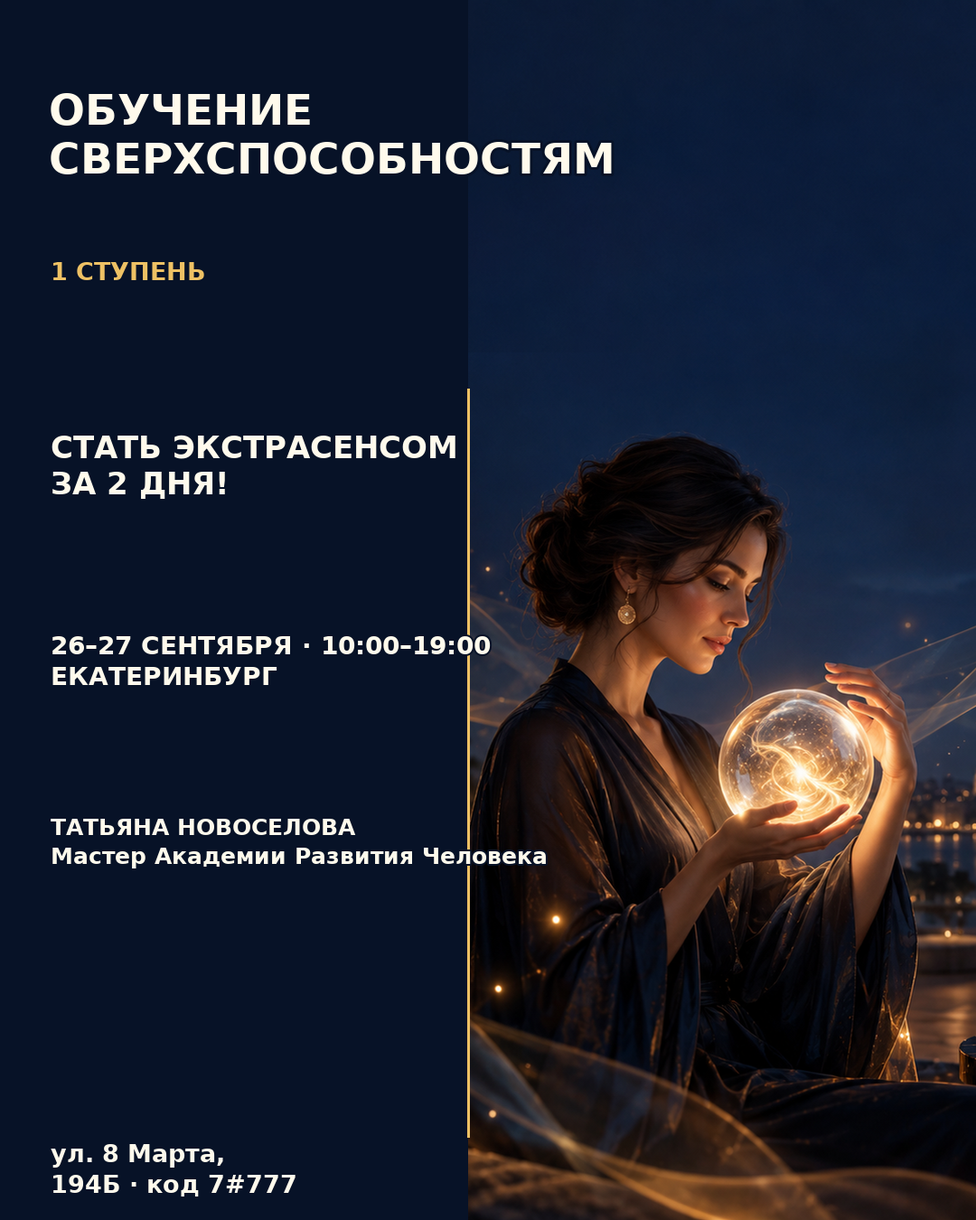
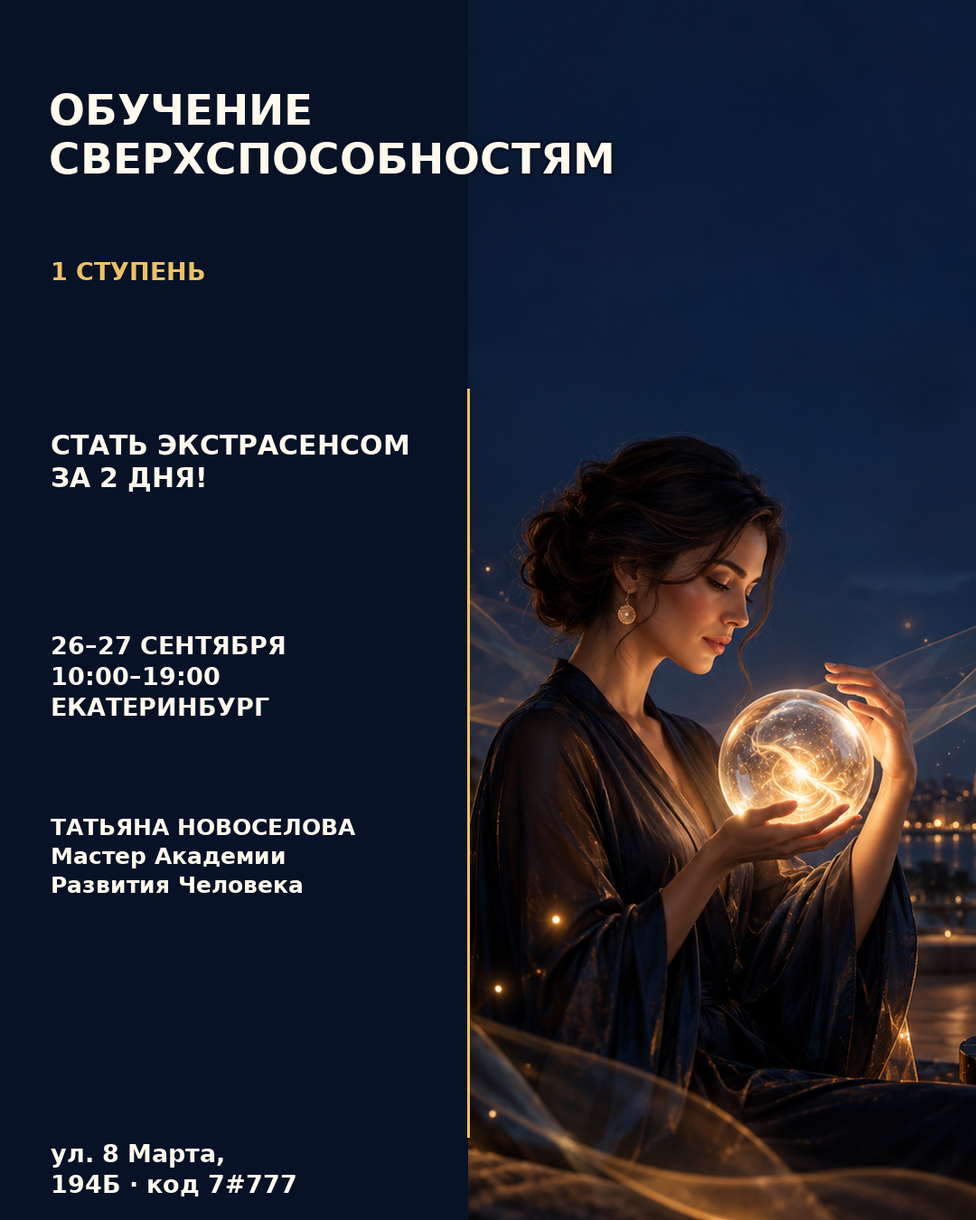
Keep supporting diptych text within column

diff --git a/scripts/build_layout_comparison_posters.py b/scripts/build_layout_comparison_posters.py
@@ -18,6 +18,13 @@ def text(draw: ImageDraw.ImageDraw, xy, value: str, size: int, color, *, anchor=
     draw.multiline_text(xy, value, font=font(BOLD, size), fill=color, anchor=anchor, align=align, spacing=spacing, stroke_width=width, stroke_fill=stroke)
 
 
+def text_in_column(draw: ImageDraw.ImageDraw, xy, value: str, size: int, color, max_right: int, *, stroke=(0, 0, 0, 0), width=0, spacing=4):
+    bounds = draw.multiline_textbbox(xy, value, font=font(BOLD, size), spacing=spacing, stroke_width=width)
+    if bounds[2] > max_right:
+        raise ValueError(f"Text exceeds column: {value!r}")
+    text(draw, xy, value, size, color, stroke=stroke, width=width, spacing=spacing)
+
+
 def left_gradient(color: tuple[int, int, int]) -> Image.Image:
     layer = Image.new("RGBA", (W, H), (0, 0, 0, 0))
     pixels = layer.load()
@@ -176,11 +183,11 @@ def diptych_headline_bleed() -> None:
     cream, amber, navy = (255, 250, 236, 255), (238, 193, 100, 255), (7, 18, 39, 255)
     draw.line((split, 430, split, 1258), fill=amber, width=3)
     text(draw, (54, 94), TITLE, 47, cream, stroke=navy, width=3)
-    text(draw, (56, 284), "1 СТУПЕНЬ", 27, amber, stroke=navy, width=2)
-    text(draw, (56, 475), OFFER, 34, cream, stroke=navy, width=2)
-    text(draw, (56, 698), DATE, 28, cream, stroke=navy, width=2)
-    text(draw, (56, 900), HOST, 25, cream, stroke=navy, width=2)
-    text(draw, (56, 1260), "ул. 8 Марта,\n194Б · код 7#777", 27, cream, stroke=navy, width=2)
+    text_in_column(draw, (56, 284), "1 СТУПЕНЬ", 27, amber, split - 18, stroke=navy, width=2)
+    text_in_column(draw, (56, 475), OFFER, 30, cream, split - 18, stroke=navy, width=2)
+    text_in_column(draw, (56, 698), "26–27 СЕНТЯБРЯ\n10:00–19:00\nЕКАТЕРИНБУРГ", 27, cream, split - 18, stroke=navy, width=2)
+    text_in_column(draw, (56, 900), "ТАТЬЯНА НОВОСЕЛОВА\nМастер Академии\nРазвития Человека", 25, cream, split - 18, stroke=navy, width=2)
+    text_in_column(draw, (56, 1260), "ул. 8 Марта,\n194Б · код 7#777", 27, cream, split - 18, stroke=navy, width=2)
     save(Image.alpha_composite(image, layer), "23-layout-diptych-headline-bleed.png")
 
 

diff --git a/.Codex/skills/event-media-visuals/SKILL.md b/.Codex/skills/event-media-visuals/SKILL.md
@@ -18,7 +18,7 @@ description: "Создаёт готовые для публикации изоб
    - символическая: магическая и образная, только если это уместно для темы; иначе — премиальная, предметная или природная интерпретация.
    Не повторяй между ними главный сюжет, ракурс, доминирующую палитру и действие.
 5. Сделай четвёртый, дополнительный визуал — отдельную 3D-стилизованную афишу в зацикленном GIF. Это самостоятельный четвёртый концепт, а не анимация одной из трёх статичных афиш. Специально выбери композицию, в которой есть минимум два естественно движущихся элемента: искры и объёмный свет для огня/металла; вода и туман; ткань и волосы на ветру; трава и солнечные блики; дым и мерцание. Если исходная тема не даёт таких элементов, построй сюжет вокруг уместного источника света, воздуха, воды или материалов — но не добавляй чужеродную магию. Не двигай картинку целиком, не делай зум, тряску или беспричинную анимацию. Текст и информационные плашки остаются неподвижными. GIF не содержит звук.
-6. В каждой афише используй единый порядок текста, но выбирай один из пяти режимов вёрстки и не повторяй его внутри статичной серии: (1) редакционная колонка — текст слева или справа на мягком контрастном градиенте, плавно встроенном в край изображения; (2) кинопостер — название в верхней трети, оффер под ним, дата и город в широкой нижней зоне; (3) текст в сцене — название и оффер встроены в свободную, контрастную часть сюжета или световую дугу, а технические данные собраны в устойчивой нижней зоне; (4) диптих — самостоятельные текстовая и визуальная части одной композиции. По умолчанию используй строгий диптих: весь текст остаётся в своей колонке, а изображение — в своей; ширину текстовой части подбирай под самый длинный заголовок. Разрешай главному заголовку пересечь границу только как отдельный приём «выход за границу»: линия-разделитель должна отсутствовать на участке заголовка, а за его буквами должен быть единый контрастный фон или градиент, объединяющий обе зоны. Никакие остальные строки не выходят за колонку. Для визуальной части заранее оставляй область нужной пропорции и заполняй её только с сохранением пропорций исходного изображения, при необходимости кадрируя, но никогда не растягивая и не сжимая; (5) орбитальная композиция — герой или символ в центре, название и оффер по дуге или кольцу, технические данные в устойчивом нижнем блоке. Во всех режимах крупно — название события, максимум в две строки. Сразу под ним — главная мысль или оффер из исходника, в одну-две строки и заметно меньше названия. Средним кеглем — дата, время, город и ведущий, если он указан. Внизу — точный адрес. Цена, телефон, программа и остальные данные по умолчанию остаются в подписи к посту; добавляй их на афишу только по явной просьбе. На вертикальной афише 1080×1350 не используй шрифт меньше 25 px для блока ведущего и 27 px для адреса; на других размерах увеличивай пропорционально. Генерируй художественную основу без мелкого текста; точные строки накладывай отдельной вёрсткой, чтобы не было ошибок. Визуал должен занимать большую часть кадра.
+6. В каждой афише используй единый порядок текста, но выбирай один из пяти режимов вёрстки и не повторяй его внутри статичной серии: (1) редакционная колонка — текст слева или справа на мягком контрастном градиенте, плавно встроенном в край изображения; (2) кинопостер — название в верхней трети, оффер под ним, дата и город в широкой нижней зоне; (3) текст в сцене — название и оффер встроены в свободную, контрастную часть сюжета или световую дугу, а технические данные собраны в устойчивой нижней зоне; (4) диптих — самостоятельные текстовая и визуальная части одной композиции. По умолчанию используй строгий диптих: весь текст остаётся в своей колонке, а изображение — в своей; ширину текстовой части подбирай под самый длинный заголовок. Разрешай главному заголовку пересечь границу только как отдельный приём «выход за границу»: линия-разделитель должна отсутствовать на участке заголовка, а за его буквами должен быть единый контрастный фон или градиент, объединяющий обе зоны. Оффер, дата, ведущий и адрес всегда остаются в текстовой колонке: разбивай их на короткие строки или уменьшай кегль до установленного минимального, но не выпускай за границу. Перед сохранением измеряй фактические границы отрисованных строк с учётом обводки. Для визуальной части заранее оставляй область нужной пропорции и заполняй её только с сохранением пропорций исходного изображения, при необходимости кадрируя, но никогда не растягивая и не сжимая; (5) орбитальная композиция — герой или символ в центре, название и оффер по дуге или кольцу, технические данные в устойчивом нижнем блоке. Во всех режимах крупно — название события, максимум в две строки. Сразу под ним — главная мысль или оффер из исходника, в одну-две строки и заметно меньше названия. Средним кеглем — дата, время, город и ведущий, если он указан. Внизу — точный адрес. Цена, телефон, программа и остальные данные по умолчанию остаются в подписи к посту; добавляй их на афишу только по явной просьбе. На вертикальной афише 1080×1350 не используй шрифт меньше 25 px для блока ведущего и 27 px для адреса; на других размерах увеличивай пропорционально. Генерируй художественную основу без мелкого текста; точные строки накладывай отдельной вёрсткой, чтобы не было ошибок. Визуал должен занимать большую часть кадра.
 7. Если исходник длинный — больше 700 знаков либо содержит больше пяти существенных фактов — подготовь ещё три самостоятельных поста: для Telegram, ВК и MAX. Адаптируй структуру, но не искажай факты. Умеренно используй эмодзи: для навигации и акцентов, не в каждой строке.
 8. Перед выдачей проверь все четыре файла: формат и размеры, читаемость на уменьшенном до 540 px превью — в том числе адреса и блока ведущего без увеличения, — порядок текстовых уровней, отсутствие обрезанного текста, бессмысленных надписей, водяных знаков и деформированных рук/лиц. Сверь напечатанный текст с исходными данными. При провале проверки исправь результат до выдачи.
 
@@ -42,7 +42,7 @@ description: "Создаёт готовые для публикации изоб
 - Не выноси на афишу цену, телефон и длинную программу, если пользователь явно этого не просил.
 - Не размещай информационные строки мелким разрозненным текстом и не собирай весь текст в большую прямоугольную карточку; используй крупную интегрированную текстовую колонку с градиентом, если пользователь не указал другой стиль.
 - В режиме «Диптих» не деформируй визуальную часть: масштабируй пропорционально и кадрируй под выделенное место, а не сжимай или растягивай её по одной оси.
-- В строгом «Диптихе» ни одна строка текста не пересекает границу текстовой и визуальной частей. Приём «выход за границу» применяй только к главному заголовку, с единым контрастным фоном за ним и без линии-разделителя на участке пересечения.
+- В строгом «Диптихе» ни одна строка текста не пересекает границу текстовой и визуальной частей. В варианте «выход за границу» это разрешено только главному заголовку; оффер, дата, ведущий и адрес обязаны помещаться в колонке. Проверяй это по фактическим границам отрисованного текста, включая обводку, а не на глаз.
 - Не используй один и тот же персонаж, фон или композицию в трёх статичных вариантах.
 - Если приложена фотография человека и пользователь просит показать его, сохраняй узнаваемость и не подменяй личность другим человеком.
 - Не добавляй магические символы, религиозные мотивы или этнические орнаменты без опоры на тему или исходные материалы.

diff --git a/event-media-visuals-SKILL.md b/event-media-visuals-SKILL.md
@@ -18,7 +18,7 @@ description: "Создаёт готовые для публикации изоб
    - символическая: магическая и образная, только если это уместно для темы; иначе — премиальная, предметная или природная интерпретация.
    Не повторяй между ними главный сюжет, ракурс, доминирующую палитру и действие.
 5. Сделай четвёртый, дополнительный визуал — отдельную 3D-стилизованную афишу в зацикленном GIF. Это самостоятельный четвёртый концепт, а не анимация одной из трёх статичных афиш. Специально выбери композицию, в которой есть минимум два естественно движущихся элемента: искры и объёмный свет для огня/металла; вода и туман; ткань и волосы на ветру; трава и солнечные блики; дым и мерцание. Если исходная тема не даёт таких элементов, построй сюжет вокруг уместного источника света, воздуха, воды или материалов — но не добавляй чужеродную магию. Не двигай картинку целиком, не делай зум, тряску или беспричинную анимацию. Текст и информационные плашки остаются неподвижными. GIF не содержит звук.
-6. В каждой афише используй единый порядок текста, но выбирай один из пяти режимов вёрстки и не повторяй его внутри статичной серии: (1) редакционная колонка — текст слева или справа на мягком контрастном градиенте, плавно встроенном в край изображения; (2) кинопостер — название в верхней трети, оффер под ним, дата и город в широкой нижней зоне; (3) текст в сцене — название и оффер встроены в свободную, контрастную часть сюжета или световую дугу, а технические данные собраны в устойчивой нижней зоне; (4) диптих — самостоятельные текстовая и визуальная части одной композиции. По умолчанию используй строгий диптих: весь текст остаётся в своей колонке, а изображение — в своей; ширину текстовой части подбирай под самый длинный заголовок. Разрешай главному заголовку пересечь границу только как отдельный приём «выход за границу»: линия-разделитель должна отсутствовать на участке заголовка, а за его буквами должен быть единый контрастный фон или градиент, объединяющий обе зоны. Никакие остальные строки не выходят за колонку. Для визуальной части заранее оставляй область нужной пропорции и заполняй её только с сохранением пропорций исходного изображения, при необходимости кадрируя, но никогда не растягивая и не сжимая; (5) орбитальная композиция — герой или символ в центре, название и оффер по дуге или кольцу, технические данные в устойчивом нижнем блоке. Во всех режимах крупно — название события, максимум в две строки. Сразу под ним — главная мысль или оффер из исходника, в одну-две строки и заметно меньше названия. Средним кеглем — дата, время, город и ведущий, если он указан. Внизу — точный адрес. Цена, телефон, программа и остальные данные по умолчанию остаются в подписи к посту; добавляй их на афишу только по явной просьбе. На вертикальной афише 1080×1350 не используй шрифт меньше 25 px для блока ведущего и 27 px для адреса; на других размерах увеличивай пропорционально. Генерируй художественную основу без мелкого текста; точные строки накладывай отдельной вёрсткой, чтобы не было ошибок. Визуал должен занимать большую часть кадра.
+6. В каждой афише используй единый порядок текста, но выбирай один из пяти режимов вёрстки и не повторяй его внутри статичной серии: (1) редакционная колонка — текст слева или справа на мягком контрастном градиенте, плавно встроенном в край изображения; (2) кинопостер — название в верхней трети, оффер под ним, дата и город в широкой нижней зоне; (3) текст в сцене — название и оффер встроены в свободную, контрастную часть сюжета или световую дугу, а технические данные собраны в устойчивой нижней зоне; (4) диптих — самостоятельные текстовая и визуальная части одной композиции. По умолчанию используй строгий диптих: весь текст остаётся в своей колонке, а изображение — в своей; ширину текстовой части подбирай под самый длинный заголовок. Разрешай главному заголовку пересечь границу только как отдельный приём «выход за границу»: линия-разделитель должна отсутствовать на участке заголовка, а за его буквами должен быть единый контрастный фон или градиент, объединяющий обе зоны. Оффер, дата, ведущий и адрес всегда остаются в текстовой колонке: разбивай их на короткие строки или уменьшай кегль до установленного минимального, но не выпускай за границу. Перед сохранением измеряй фактические границы отрисованных строк с учётом обводки. Для визуальной части заранее оставляй область нужной пропорции и заполняй её только с сохранением пропорций исходного изображения, при необходимости кадрируя, но никогда не растягивая и не сжимая; (5) орбитальная композиция — герой или символ в центре, название и оффер по дуге или кольцу, технические данные в устойчивом нижнем блоке. Во всех режимах крупно — название события, максимум в две строки. Сразу под ним — главная мысль или оффер из исходника, в одну-две строки и заметно меньше названия. Средним кеглем — дата, время, город и ведущий, если он указан. Внизу — точный адрес. Цена, телефон, программа и остальные данные по умолчанию остаются в подписи к посту; добавляй их на афишу только по явной просьбе. На вертикальной афише 1080×1350 не используй шрифт меньше 25 px для блока ведущего и 27 px для адреса; на других размерах увеличивай пропорционально. Генерируй художественную основу без мелкого текста; точные строки накладывай отдельной вёрсткой, чтобы не было ошибок. Визуал должен занимать большую часть кадра.
 7. Если исходник длинный — больше 700 знаков либо содержит больше пяти существенных фактов — подготовь ещё три самостоятельных поста: для Telegram, ВК и MAX. Адаптируй структуру, но не искажай факты. Умеренно используй эмодзи: для навигации и акцентов, не в каждой строке.
 8. Перед выдачей проверь все четыре файла: формат и размеры, читаемость на уменьшенном до 540 px превью — в том числе адреса и блока ведущего без увеличения, — порядок текстовых уровней, отсутствие обрезанного текста, бессмысленных надписей, водяных знаков и деформированных рук/лиц. Сверь напечатанный текст с исходными данными. При провале проверки исправь результат до выдачи.
 
@@ -42,7 +42,7 @@ description: "Создаёт готовые для публикации изоб
 - Не выноси на афишу цену, телефон и длинную программу, если пользователь явно этого не просил.
 - Не размещай информационные строки мелким разрозненным текстом и не собирай весь текст в большую прямоугольную карточку; используй крупную интегрированную текстовую колонку с градиентом, если пользователь не указал другой стиль.
 - В режиме «Диптих» не деформируй визуальную часть: масштабируй пропорционально и кадрируй под выделенное место, а не сжимай или растягивай её по одной оси.
-- В строгом «Диптихе» ни одна строка текста не пересекает границу текстовой и визуальной частей. Приём «выход за границу» применяй только к главному заголовку, с единым контрастным фоном за ним и без линии-разделителя на участке пересечения.
+- В строгом «Диптихе» ни одна строка текста не пересекает границу текстовой и визуальной частей. В варианте «выход за границу» это разрешено только главному заголовку; оффер, дата, ведущий и адрес обязаны помещаться в колонке. Проверяй это по фактическим границам отрисованного текста, включая обводку, а не на глаз.
 - Не используй один и тот же персонаж, фон или композицию в трёх статичных вариантах.
 - Если приложена фотография человека и пользователь просит показать его, сохраняй узнаваемость и не подменяй личность другим человеком.
 - Не добавляй магические символы, религиозные мотивы или этнические орнаменты без опоры на тему или исходные материалы.
